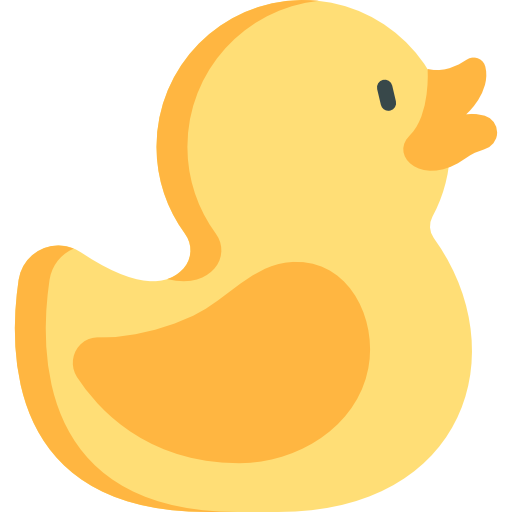
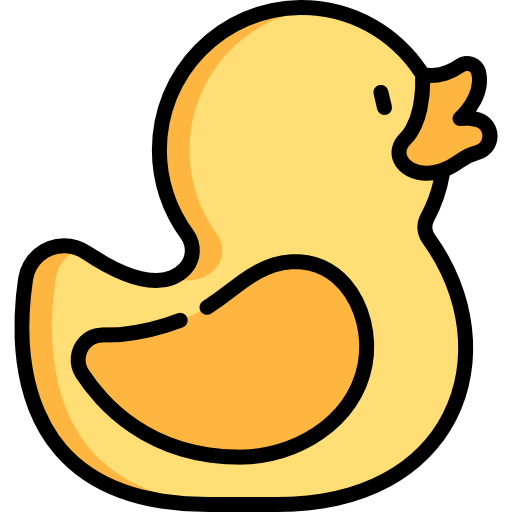
Change the stats section

Changed region(s): [[0.0, 0.0, 1.0, 1.0]]

diff --git a/css/stats.css b/css/stats.css
@@ -7,6 +7,21 @@
     padding: 2.5rem 1.5rem 5rem;
 }
 
+.progress-fill {
+    position: relative;
+    display: flex;
+    align-items: center;
+    justify-content: flex-end;
+}
+.progress-duck {
+    position: absolute;
+    right: -12px;
+    width: 15px;
+    height: 15px;
+    border-radius: 50%;
+    box-shadow: -2px 0 5px rgba(0,0,0,0.2);
+}
+
 .stats-profile {
     display: flex;
     flex-direction: column;
@@ -25,16 +40,17 @@
     width: 132px;
     height: 132px;
     border-radius: 50%;
-    border: 3px solid var(--primary-second);
+    padding: 4px; 
     overflow: hidden;
-    background: #56607F;
-    flex-shrink: 0;
+    position: relative;
 }
 
 .stats-avatar svg {
     width: 100%;
     height: 100%;
     display: block;
+    border-radius: 50%;
+    border: 3px solid var(--main-bg);
 }
 
 .wing {
@@ -121,7 +137,16 @@
 }
 
 .stats-number {
-    padding-top: 1.75rem;
+    display: block;
+    min-height: 134px;
+    background: var(--primary-hover);
+    border: none; 
+    border-radius: 0;
+    padding: 1rem 1.5rem;
+    color: var(--text-main);
+    text-decoration: none;
+    clip-path: polygon(15px 0, 100% 0, 100% calc(100% - 15px), calc(100% - 15px) 100%, 0 100%, 0 15px);
+    box-shadow: inset 0 0 0 2px var(--primary); 
 }
 
 .big-number {
@@ -129,17 +154,21 @@
     font-weight: 700;
     line-height: 1;
     color: var(--text-main);
+    position: relative;
+    z-index: 2;
 }
 
 .stats-card {
     display: block;
     min-height: 134px;
     background: var(--primary-hover);
-    border: 3px solid var(--primary);
-    border-radius: var(--radius-md);
+    border: none; 
+    border-radius: 0;
     padding: 1rem 1.5rem;
     color: var(--text-main);
     text-decoration: none;
+    clip-path: polygon(15px 0, 100% 0, 100% calc(100% - 15px), calc(100% - 15px) 100%, 0 100%, 0 15px);
+    box-shadow: inset 0 0 0 2px var(--primary); 
 }
 
 .ongoing-card {
@@ -213,12 +242,19 @@
     border-radius: 50%;
     background: var(--main-bg);
     border: 2px solid var(--primary-second);
+    margin-bottom: 5px;
 }
 
 .badge-name {
     font-size: 0.75rem;
     line-height: 1.2;
     color: var(--text-main);
+}
+
+.badge-rank {
+    font-size: 0.6rem;
+    line-height: 1.2;
+    color: var(--text-muted);
 }
 
 .badge.locked {
@@ -431,3 +467,15 @@
     color: #ff7a59;
     font-size: 0.85rem;
 }
+
+/* Add to stats.css */
+.badge.Common .badge-icon { border-color: #A0A0A0; box-shadow: 0 0 8px rgba(160, 160, 160, 0.4); }
+.badge.Common .badge-rank { color: #A0A0A0; }
+.badge.Novice .badge-icon { border-color: #d3915b; box-shadow: 0 0 12px rgba(247, 167, 54, 0.6); }
+.badge.Novice .badge-rank { color: #d3915b; }
+.badge.Epic .badge-icon { border-color: #B026FF; box-shadow: 0 0 12px rgba(176, 38, 255, 0.6); }
+.badge.Epic .badge-rank { color: #B026FF; }
+.badge.Ancient .badge-icon { border-color: #ff4949; box-shadow: 0 0 12px rgba(255, 38, 38, 0.6); }
+.badge.Ancient .badge-rank { color: #ff4949; }
+.badge.Legendary .badge-icon { border-color: #FFD700; box-shadow: 0 0 15px rgba(255, 215, 0, 0.8); }
+.badge.Legendary .badge-rank { color: #FFD700; }

diff --git a/script/stats.js b/script/stats.js
@@ -31,11 +31,11 @@ document.addEventListener("DOMContentLoaded", async () => {
     ];
 
     const BADGES = [
-        { icon: "🥚", name: "First Quack",      need: 1,  desc: "Clear your first challenge" },
-        { icon: "🏡", name: "Village Graduate", need: 5,  desc: "Clear all 5 village chapters" },
-        { icon: "🛡", name: "Guardian Breaker", need: 10, desc: "Beat 5 guardians" },
-        { icon: "🗺", name: "Road Conqueror",   need: 15, desc: "Beat all 10 guardians" },
-        { icon: "🐍", name: "PyThorn Slayer",   need: 16, desc: "Defeat PyThorn" }
+        { icon: "🥚", name: "First Quack", need: 1, rarity: "Common", desc: "Clear your first challenge" },
+        { icon: "🏡", name: "Village Graduate", need: 5, rarity: "Novice",  desc: "Clear all 5 village chapters" },
+        { icon: "🛡", name: "Guardian Breaker", need: 10, rarity: "Epic", desc: "Beat 5 guardians" },
+        { icon: "🗺", name: "Road Conqueror", need: 15, rarity: "Ancient", desc: "Beat all 10 guardians" },
+        { icon: "🐍", name: "PyThorn Slayer", need: 16, rarity: "Legendary", desc: "Defeat PyThorn" }
     ];
 
     function renderProfile() {
@@ -79,9 +79,10 @@ document.addEventListener("DOMContentLoaded", async () => {
         document.getElementById("badge-list").innerHTML = BADGES.map((b) => {
             const earned = completed >= b.need;
             return `
-                <li class="badge ${earned ? "earned" : "locked"}" title="${b.desc}">
+                <li class="badge ${earned ? "earned " + b.rarity : "locked"}" title="${b.desc}">
                     <span class="badge-icon">${b.icon}</span>
                     <span class="badge-name">${b.name}</span>
+                    <span class="badge-rank">${b.rarity}</span>
                 </li>`;
         }).join("");
     }

diff --git a/stats.html b/stats.html
@@ -58,7 +58,10 @@
           <div class="course-row">
             <span class="course-name">Python</span>
             <div class="progress-track" role="progressbar" aria-valuemin="0" aria-valuemax="100" aria-valuenow="0" id="python-progress-track">
-              <div class="progress-fill" id="python-progress"></div>
+              <div class="progress-fill" id="python-progress">
+                <!-- Placeholder: src="assets/images/swimming-duck.png" -->
+                <img src="assets/images/duck-icon.png" alt="" class="progress-duck">
+              </div>
             </div>
           </div>
           <p class="course-chapter" id="python-chapter">Chapter 1</p>
